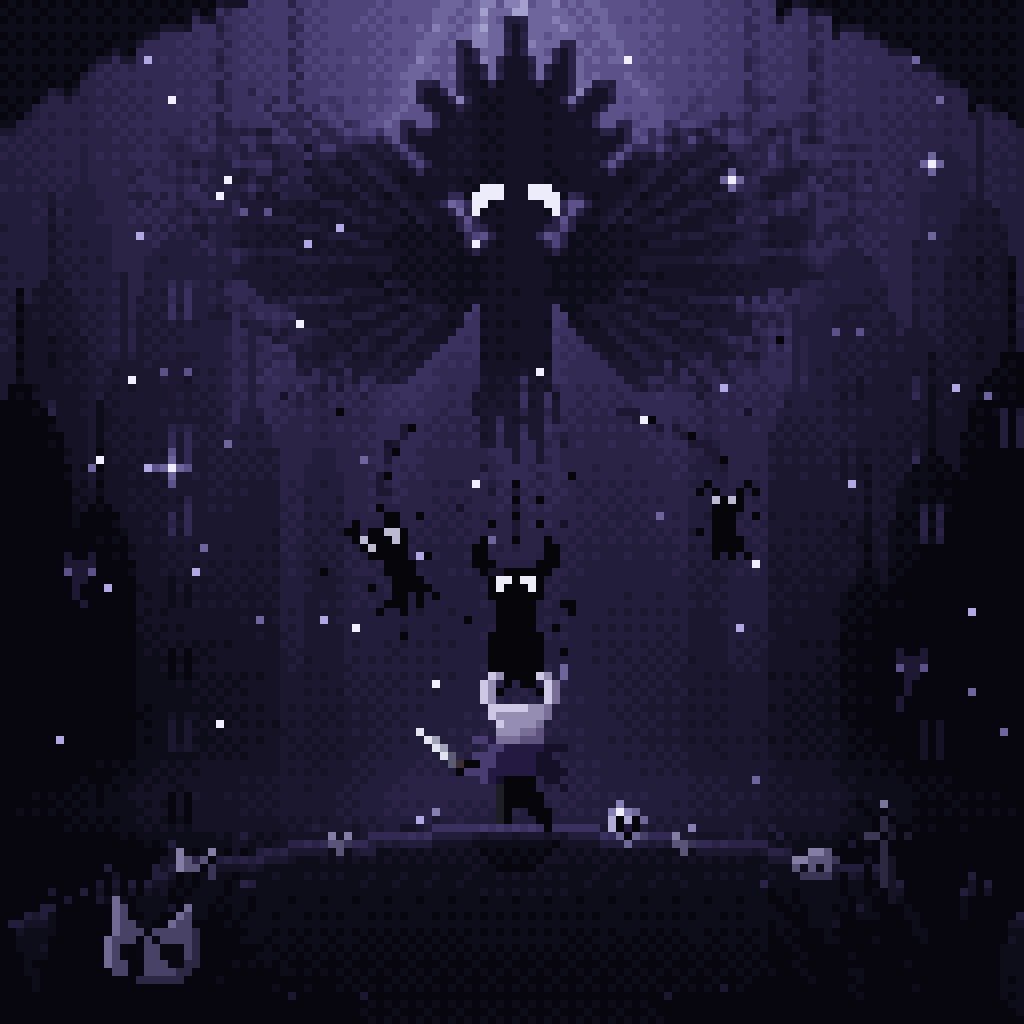
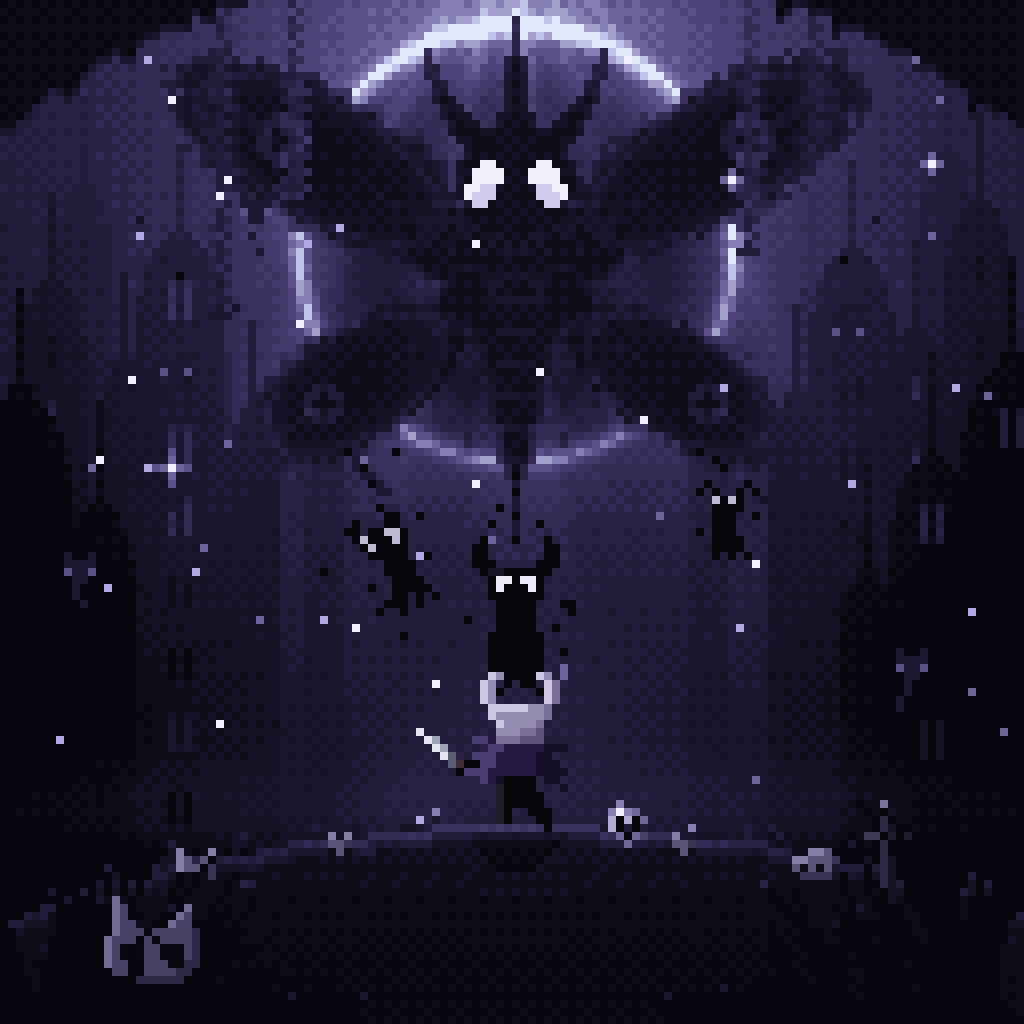
Redesign the voided Radiance after her in-game look
Three horns as a crown, round head with great oval eyes, fluffy ruff, four
broad moth wings in an X with eyespots and frayed edges, thin folded legs,
banded abdomen, and her sun disc eclipsed to a dark sun with a burning rim.

Claude-Session: https://claude.ai/code/session_01JTynV4vLTguTEKhYtYDW26

Changed region(s): [[0.1562, 0.0, 0.8438, 0.5]]

diff --git a/void_vigil.py b/void_vigil.py
@@ -126,86 +126,136 @@ def fog_field(t):
 
 
 # --- the voided Radiance, looming behind everything ------------------------------
-# She is drawn as a density field: 1 where her void body fully hides the light,
-# fading toward the tattered tips of her wings and the hem of her gown, which
-# dissolve into the void that becomes the shades.
-HEAD = (64.0, 24.0)
-SHOULDER_L, SHOULDER_R = (59.0, 33.5), (69.0, 33.5)
-# (elevation in degrees from horizontal, length, half width) for each feather
-UPPER_WING = [(5, 44, 4.6), (15, 47, 5.2), (25, 45, 5.0), (35, 39, 4.6), (45, 31, 4.0)]
-LOWER_WING = [(-10, 35, 4.4), (-21, 33, 4.4), (-33, 29, 4.0), (-45, 23, 3.4)]
-CROWN = [(-80, 12), (-60, 14), (-40, 16), (-20, 18), (0, 20), (20, 18), (40, 16),
-         (60, 14), (80, 12)]   # spike angle from straight up, length
+# The Radiance as she is in the game: a moth goddess with a round face and two
+# great glowing eyes, three horns rising from her head like a crown, a fluffy
+# ruff at her throat, four broad moth wings spread in an X, thin legs folded
+# under a tapering abdomen, and a huge sun-like disc of light behind her.
+# Voided: her white body is now void, the disc is eclipsed to a dark sun with
+# a burning rim, her wings fray into holes, and her eyes burn void-white.
+HEAD = (64.0, 22.0)
+DISC = (64.0, 30.0, 27.0)            # centre x, y, radius of the halo disc
 HASH = np.modf(np.sin(XX * 12.9898 + YY * 78.233) * 43758.5453)[0] % 1.0
 
+# wings: (anchor, centre, semi-major, semi-minor, eyespot (x, y, r))
+FOREWING = ((59, 31), (39.5, 19.5), 23.0, 9.5, (35, 17, 2.6))
+HINDWING = ((60, 37), (44.0, 47.5), 17.0, 8.6, (40, 50, 1.8))
+# legs: knee and foot for three pairs (left side; mirrored for the right)
+LEGS = [((61, 37), (55, 41), (56, 47)), ((61, 40), (53, 45), (54, 51)),
+        ((62, 43), (56, 50), (58, 55))]
 
-def _feather(ox, oy, ang, length, half):
-    """Lens-shaped feather from (ox, oy) along ang (radians, screen coords).
-    Returns density and the fraction along the feather (0 base .. 1 tip)."""
-    dx, dy = math.cos(ang), math.sin(ang)
-    px, py = XX - ox, YY - oy
-    along = px * dx + py * dy
-    perp = np.abs(-px * dy + py * dx)
-    f = along / length
-    width = half * np.clip(1 - (2 * f - 1) ** 2, 0, 1) ** 0.6
-    inside = (f > 0) & (f < 1) & (perp <= width + 0.35)
-    vein = inside & (perp < 0.55) & (f > 0.25) & (f < 0.92)
-    return inside, np.clip(f, 0, 1), vein
+
+def _wing(anchor, centre, a, b, spot, side, flap):
+    ax, ay = anchor
+    cx, cy = centre
+    if side > 0:
+        ax, cx = 128 - ax, 128 - cx
+    # flap: swing the wing about its anchor
+    ang0 = math.atan2(cy - ay, cx - ax) + flap * side
+    dist = math.hypot(cx - ax, cy - ay)
+    cx, cy = ax + dist * math.cos(ang0), ay + dist * math.sin(ang0)
+    px, py = XX - cx, YY - cy
+    u = (px * math.cos(ang0) + py * math.sin(ang0)) / a
+    v = (-px * math.sin(ang0) + py * math.cos(ang0)) / b
+    r = np.sqrt(u * u + v * v)
+    inside = r <= 1.0
+    keep = HASH > (r - 0.84) * 5.5            # the rim is eaten by holes
+    wing = inside & keep
+    band = wing & (r > 0.70) & (r < 0.79)     # a pale submarginal line
+    # veins fanning out from the anchor
+    va = np.arctan2(YY - ay, XX - ax)
+    veins = wing & (np.abs(np.sin((va - ang0) * 7.0)) < 0.13) & (r > 0.3) & (r < 0.7)
+    sx, sy, sr = spot
+    if side > 0:
+        sx = 128 - sx
+    # move the eyespot with the flap too
+    sa = math.atan2(sy - ay, sx - ax) + flap * side
+    sd = math.hypot(sx - ax, sy - ay)
+    sx, sy = ax + sd * math.cos(sa), ay + sd * math.sin(sa)
+    sdist = np.hypot(XX - sx, YY - sy)
+    ring = wing & (np.abs(sdist - sr) < 0.7)
+    return wing, r, band | veins, ring
+
+
+def _stroke(p0, p1, p2, w0, w1, n=40):
+    """Tapered curved stroke (quadratic bezier) as a boolean mask."""
+    m = np.zeros((H, W), dtype=bool)
+    for k in range(n + 1):
+        u = k / n
+        x = (1 - u) ** 2 * p0[0] + 2 * (1 - u) * u * p1[0] + u * u * p2[0]
+        y = (1 - u) ** 2 * p0[1] + 2 * (1 - u) * u * p1[1] + u * u * p2[1]
+        w = w0 + (w1 - w0) * u
+        m |= (XX - x) ** 2 + (YY - y) ** 2 <= w * w
+    return m
 
 
 def radiance_field(t):
-    """Density D, her own value R, and her feather veins, for time t."""
+    """Density D, her own value R, lighter markings, and her eyespot rings."""
     D = np.zeros((H, W))
-    R = np.full((H, W), 2.0)
-    veins = np.zeros((H, W), dtype=bool)
-    breathe = 2.2 * math.sin(TAU * t)                      # wings rise and fall
-    for (sx, sy), side in ((SHOULDER_L, -1), (SHOULDER_R, 1)):
-        for wing, lift in ((UPPER_WING, 1.0), (LOWER_WING, 0.6)):
-            for k, (elev, length, half) in enumerate(wing):
-                e = math.radians(elev + breathe * lift)
-                ang = math.atan2(-math.sin(e), side * math.cos(e))
-                inside, f, vein = _feather(sx, sy, ang, length, half)
-                # tattered: the outer part of each feather is eaten by holes
-                keep = HASH > (f - 0.62) * 2.2 + 0.03 * k
-                dens = np.where(inside & keep, 1.0 - 0.38 * f ** 2, 0)
-                R = np.where(dens > D, 1.2 + 2.0 * f ** 1.3, R)
-                D = np.maximum(D, dens)
-                veins |= vein & keep
+    R = np.full((H, W), 1.6)
+    marks = np.zeros((H, W), dtype=bool)
+    rings = np.zeros((H, W), dtype=bool)
+    flap = math.radians(3.0) * math.sin(TAU * t)
+    for wing, lift in ((HINDWING, 0.6), (FOREWING, 1.0)):
+        for side in (-1, 1):
+            m, r, mk, rg = _wing(*wing, side, -flap * lift)
+            dens = np.where(m, 1.0 - 0.12 * r ** 4, 0)
+            R = np.where(m, 1.1 + 1.5 * r ** 2, R)
+            D = np.maximum(D, dens)
+            marks |= mk
+            rings |= rg
     hx, hy = HEAD
-    # crown of spikes around the head
-    for a, length in CROWN:
-        ang = math.radians(a - 90)
-        inside, f, _ = _feather(hx + 3 * math.cos(ang), hy + 3 * math.sin(ang),
-                                ang, length, 1.9)
-        D = np.maximum(D, np.where(inside, 1.0, 0))
-    # head, neck and body
-    head = ((XX - hx) / 6.6) ** 2 + ((YY - hy) / 6.2) ** 2 <= 1
-    D = np.maximum(D, head * 1.0)
-    for y0, y1, w0, w1 in ((27, 34, 3.4, 5.2), (34, 45, 5.2, 4.6), (45, 62, 4.6, 7.5)):
-        f = np.clip((YY - y0) / (y1 - y0), 0, 1)
-        half = w0 + (w1 - w0) * f
-        body = (YY >= y0) & (YY < y1) & (np.abs(XX - hx) <= half)
-        if y0 == 45:
-            # the gown frays into strands of void
-            strands = 0.5 + 0.5 * np.sin(XX * 1.9 + 0.7 * np.sin(YY * 0.4 + TAU * t))
-            body &= (HASH * 0.6 + strands * 0.6) > (f * 1.15)
-        D = np.maximum(D, body * (1.0 - 0.35 * f * (y0 == 45)))
-    R = np.where(head | ((YY < 46) & (np.abs(XX - hx) < 5)), 1.6, R)
-    return D, R, veins
+    body = np.zeros((H, W), dtype=bool)
+    # abdomen, tapering, banded like a moth's
+    f = np.clip((YY - 35) / 24.0, 0, 1)
+    abdomen = (YY >= 35) & (YY <= 59) & (np.abs(XX - hx) <= 5.6 - 3.8 * f ** 1.2)
+    body |= abdomen
+    marks |= abdomen & ((YY.astype(int) - 37) % 4 == 0) & (np.abs(XX - hx) < 3.5 - 2 * f)
+    # thin folded legs
+    for (x0, y0), knee, foot in LEGS:
+        for sgn in (-1, 1):
+            if sgn > 0:
+                p0, p1, p2 = (128 - x0, y0), (128 - knee[0], knee[1]), (128 - foot[0], foot[1])
+            else:
+                p0, p1, p2 = (x0, y0), knee, foot
+            body |= _stroke(p0, p1, p2, 0.6, 0.45)
+    # fluffy ruff at the throat: overlapping puffs with a scalloped edge
+    for px, py, pr in ((55, 30, 4.6), (59.5, 31.5, 5.0), (64, 32, 5.2), (68.5, 31.5, 5.0),
+                       (73, 30, 4.6), (58, 35.5, 4.0), (64, 36.5, 4.2), (70, 35.5, 4.0)):
+        puff = (XX - px) ** 2 + (YY - py) ** 2 <= pr * pr
+        body |= puff
+        marks |= puff & (np.abs(np.hypot(XX - px, YY - py) - (pr - 1.4)) < 0.5) & (YY < py)
+    # the round head
+    head = ((XX - hx) / 7.6) ** 2 + ((YY - hy) / 7.2) ** 2 <= 1
+    body |= head
+    # three horns: a tall one in the middle, two curving out at the sides
+    body |= _stroke((64, 16), (64, 9), (64, 1.5), 2.3, 0.4)
+    body |= _stroke((59, 17), (54, 12), (52.5, 5), 1.9, 0.4)
+    body |= _stroke((69, 17), (74, 12), (75.5, 5), 1.9, 0.4)
+    D = np.where(body, 1.0, D)
+    R = np.where(body, 1.2, R)
+    marks &= ~head
+    return D, R, marks, rings
 
 
-def corona(t):
-    """The light she is eclipsing."""
-    d = np.hypot(XX - HEAD[0], (YY - HEAD[1]) * 1.1)
-    return (2.6 + 0.25 * math.sin(TAU * 2 * t)) * np.exp(-(d / 19.0) ** 2)
+def halo(t):
+    """Her great disc of light, eclipsed: a dark sun with a burning rim."""
+    cx, cy, rad = DISC
+    d = np.hypot(XX - cx, YY - cy)
+    flicker = 1 + 0.12 * math.sin(TAU * 2 * t)
+    rim = 5.0 * flicker * np.exp(-((d - rad) / 1.3) ** 2)
+    outer = 2.4 * flicker * np.exp(-np.clip(d - rad, 0, None) / 7.0) * (d > rad)
+    inner = -2.6 * smooth(rad - 2, rad - 9, d)          # the eclipsed face of the disc
+    return rim + outer + inner
 
 
-# her eyes share the droop of her shades' eyes, larger
-RAD_EYES = [(x, y) for x0, y0 in ((60, 23),) for x, y in
-            ((x0, y0), (x0 + 1, y0), (x0 + 2, y0), (x0 - 1, y0 + 1), (x0, y0 + 1),
-             (x0 + 1, y0 + 1), (x0 + 2, y0 + 1), (x0 - 1, y0 + 2), (x0, y0 + 2),
-             (x0 - 1, y0 + 3))]
-RAD_EYES += [(128 - x, y) for x, y in RAD_EYES]
+# her eyes: two great ovals, slightly tilted, burning void-white
+RAD_EYES = []
+for ex, ey, tilt in ((60.0, 22.5, 1), (68.0, 22.5, -1)):
+    for y in range(19, 27):
+        for x in range(55, 74):
+            u = (x - ex) + 0.25 * tilt * (y - ey)
+            if (u / 2.1) ** 2 + ((y - ey) / 3.0) ** 2 <= 1:
+                RAD_EYES.append((x, y))
 HER_REACH = np.array([1.0, 1.0, 0.0, 0.0, 0.0, 0.0, 0.0])   # behind the near city
 
 
@@ -649,14 +699,14 @@ SPARKLES = [(38, 30, 0.0), (91, 22, 0.4), (77, 48, 0.7), (21, 58, 0.2),
             (106, 60, 0.55), (52, 42, 0.85)]
 _rv = random.Random(21)
 DRIPS = []    # void dripping from the Radiance's wings and frayed gown
-for x0, y0 in ((36, 44), (42, 47), (49, 51), (55, 56), (60, 60), (68, 60), (73, 56),
-               (79, 51), (86, 47), (92, 44), (30, 40), (98, 40), (58, 58), (70, 58)):
+for x0, y0 in ((18, 22), (22, 30), (30, 34), (34, 55), (40, 57), (50, 54), (64, 60),
+               (78, 54), (88, 57), (94, 55), (98, 34), (106, 30), (110, 22), (61, 58)):
     DRIPS.append(dict(x=x0 + _rv.uniform(-1.5, 1.5), y=y0, fall=_rv.uniform(8, 16),
                       ph=_rv.random(), sway=_rv.uniform(0.2, 0.8), ph2=_rv.random()))
 # threads of void pouring from her into the shade and the siblings
-THREADS = [((64.0, 60.0), (64.5, 63.0), (64.0, 66.0), 0.0),
-           ((52.0, 52.0), (47.0, 56.0), (47.5, 61.0), 1),
-           ((77.0, 51.0), (86.0, 53.0), (90.5, 57.0), 2)]
+THREADS = [((64.0, 59.0), (64.5, 62.5), (64.0, 66.0), 0.0),
+           ((42.0, 55.0), (45.0, 58.0), (47.5, 61.0), 1),
+           ((86.0, 55.0), (89.0, 56.0), (90.5, 57.5), 2)]
 
 
 def _bezier(p0, p1, p2, u):
@@ -736,30 +786,34 @@ def render(t):
         WORLD = build_world()
     val, layer, gtop = WORLD
     beams = beam_field(t) * BEAM_REACH[layer]
-    # the sky behind her: her eclipsed light, and the beams escaping around her
-    v = val + corona(t) * HER_REACH[layer] + beams
-    D, R, veins = radiance_field(t)
+    # the sky behind her: her eclipsed disc, and the beams escaping around her
+    v = val + halo(t) * HER_REACH[layer] + beams
+    D, R, marks, rings = radiance_field(t)
     D = D * HER_REACH[layer]
-    v = v * (1 - D) + (R + 0.2 * beams) * D
-    v = np.where(veins & (D > 0.3), v + 1.5, v)              # feather veins
-    # her outline catches the light she is hiding
+    v = v * (1 - D) + (R + 0.15 * beams) * D
+    v = np.where(marks & (D > 0.5), v + 1.3, v)              # wing lines, fur, bands
+    v = np.where(rings & (D > 0.5), v + 2.6, v)              # eyespots on the wings
+    # her outline catches the light of the disc behind her
     solid = D > 0.55
     around = (np.roll(solid, 1, 0) & np.roll(solid, -1, 0)
               & np.roll(solid, 1, 1) & np.roll(solid, -1, 1))
-    top_edge = solid & ~np.roll(solid, 1, 0)
-    edge = np.where(YY < 33, solid & ~around, top_edge)   # crown: all round
-    dist = np.hypot(XX - HEAD[0], YY - HEAD[1])
-    glow = 2.6 * np.exp(-(dist / 24.0) ** 2) + 1.4 * np.exp(-(dist / 60.0) ** 2)
+    edge = solid & ~around
+    dist = np.hypot(XX - DISC[0], YY - DISC[1])
+    glow = 3.0 * np.exp(-((dist - DISC[2]) / 6.0) ** 2) + 1.0
     v = np.where(edge, v + glow, v)
     v = v + fog_field(t) * FOG_REACH[layer]
     cv = Canvas(quantize(v))
-    # her eyes, pulsing - the same shape as her shades' eyes
+    # her eyes, pulsing; brightest at the top, like light caught in glass
     pulse = 0.5 + 0.5 * math.sin(TAU * t)
+    top_rows = {}
     for x, y in RAD_EYES:
-        cv.put(x, y, (236, 236, 250) if pulse > 0.45 else (194, 192, 226))
-    if pulse > 0.75:
-        for x, y in ((58, 24), (58, 25), (58, 26), (70, 24), (70, 25), (70, 26)):
-            cv.put(x, y, RAMP[7])
+        top_rows[x] = min(top_rows.get(x, 99), y)
+    for x, y in RAD_EYES:
+        if pulse > 0.45:
+            c = (240, 240, 252) if y <= top_rows[x] + 2 else (206, 204, 234)
+        else:
+            c = (208, 206, 236) if y <= top_rows[x] + 2 else (170, 166, 210)
+        cv.put(x, y, c)
     draw_distant_siblings(cv, t)
     draw_threads(cv, t)
     draw_shade(cv)
